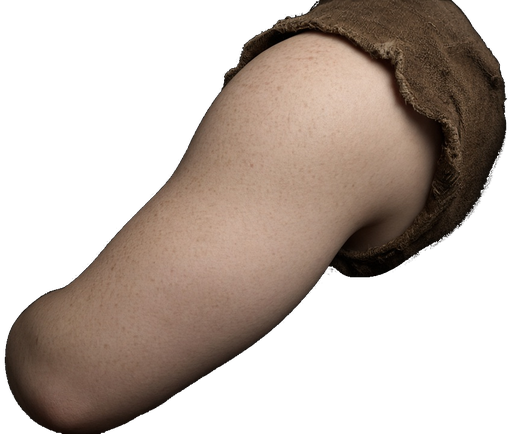
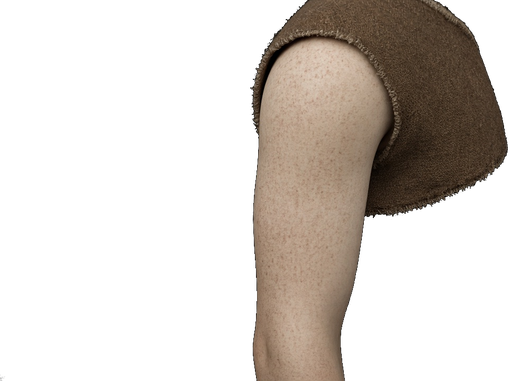
Close variant-b upperarms for all races

diff --git a/NOTES.md b/NOTES.md
@@ -39,4 +39,4 @@
 - 2026-09-13aj: elf F b head (auburn overwrite); elf M b clothed torso (crop chest–waist; arms tapered off below short sleeves); orc F b clothed torso (olive via rembg alpha + original RGB); hobbit M b clothed torso (arms tapered off below short sleeves); human south F b clothed torso. Heads/torsos only, no L/R mirror. rembg u2net alpha + original RGB composite. eje largo 512. RGBA.
 - 2026-09-13ak: remaining variant-b clothed torsos: orc M (olive via rembg alpha + original RGB); hobbit F; human north M; human north F; human south M; lizardfolk M (green scales via rembg alpha + original RGB); sheepfolk F; lizardfolk F (green scales via rembg alpha + original RGB); sheepfolk M; elf F (overwrite). Crop chest–waist; arms mild-trim (short sleeves kept). Torsos only, no L/R mirror. rembg u2net alpha + original RGB composite. eje largo 512. RGBA.
 - 2026-09-13al: variant-b upperarms: elf M, orc F (olive via rembg alpha + original RGB), hobbit M, human south F (bent; crop shoulder→elbow+woven band), lizard M (bent; green scales via rembg alpha + original RGB; crop shoulder→elbow), sheep F. Mirror L→R. south F upperarm: bent full arm; PIL cone-crop from elbow (603,8) toward shoulder (20,156) kept shoulder→elbow+woven band, trimmed forearm (x_cut=873, y_cut=519) lizard M upperarm: bent; PIL cone-crop from elbow (778,453) toward shoulder (340,110) kept shoulder→elbow+leather band, trimmed forearm (x_cut=833, y_cut=703). rembg u2net alpha + original RGB composite. eje largo 512. RGBA.
-- 2026-09-13am: remaining variant-b upperarms: orc M (olive via rembg alpha + original RGB; bent crop shoulder→elbow), hobbit F, human north M, human north F (v2 real arm), human south M, lizard F (green scales via rembg alpha + original RGB), sheep M (wool). Mirror L→R. orc M upperarm: bent; PIL cone-crop from elbow (822,445) toward shoulder (241,99) kept shoulder→elbow+leather band, trimmed forearm (elbow_t=677). rembg u2net alpha + original RGB composite. eje largo 512. RGBA.
+- 2026-09-13am: remaining variant-b upperarms: orc M (olive via rembg alpha + original RGB; crop shoulder→elbow), hobbit F, human north M (crop to upperarm band; trim torso), human north F, human south M, lizard F (green scales via rembg alpha + original RGB; crop shoulder→elbow), sheep M (newer source 4fa3849a preferred over e795). Mirror L→R. orc M upperarm: forearm tip trimmed; PIL cone-crop from elbow (819,447) toward shoulder (496,30) kept shoulder→elbow+leather band (x_cut=844, y_cut=526) north M upperarm: torso fringe trimmed at x>=345 (armpit mid-band min col=340); crop to upperarm band lizard F upperarm: bent; PIL cone-crop from elbow (701,396) toward shoulder (343,114) kept shoulder→elbow+cloth band, trimmed forearm (x_cut=721, y_cut=509). rembg u2net alpha + original RGB composite. eje largo 512. RGBA.
